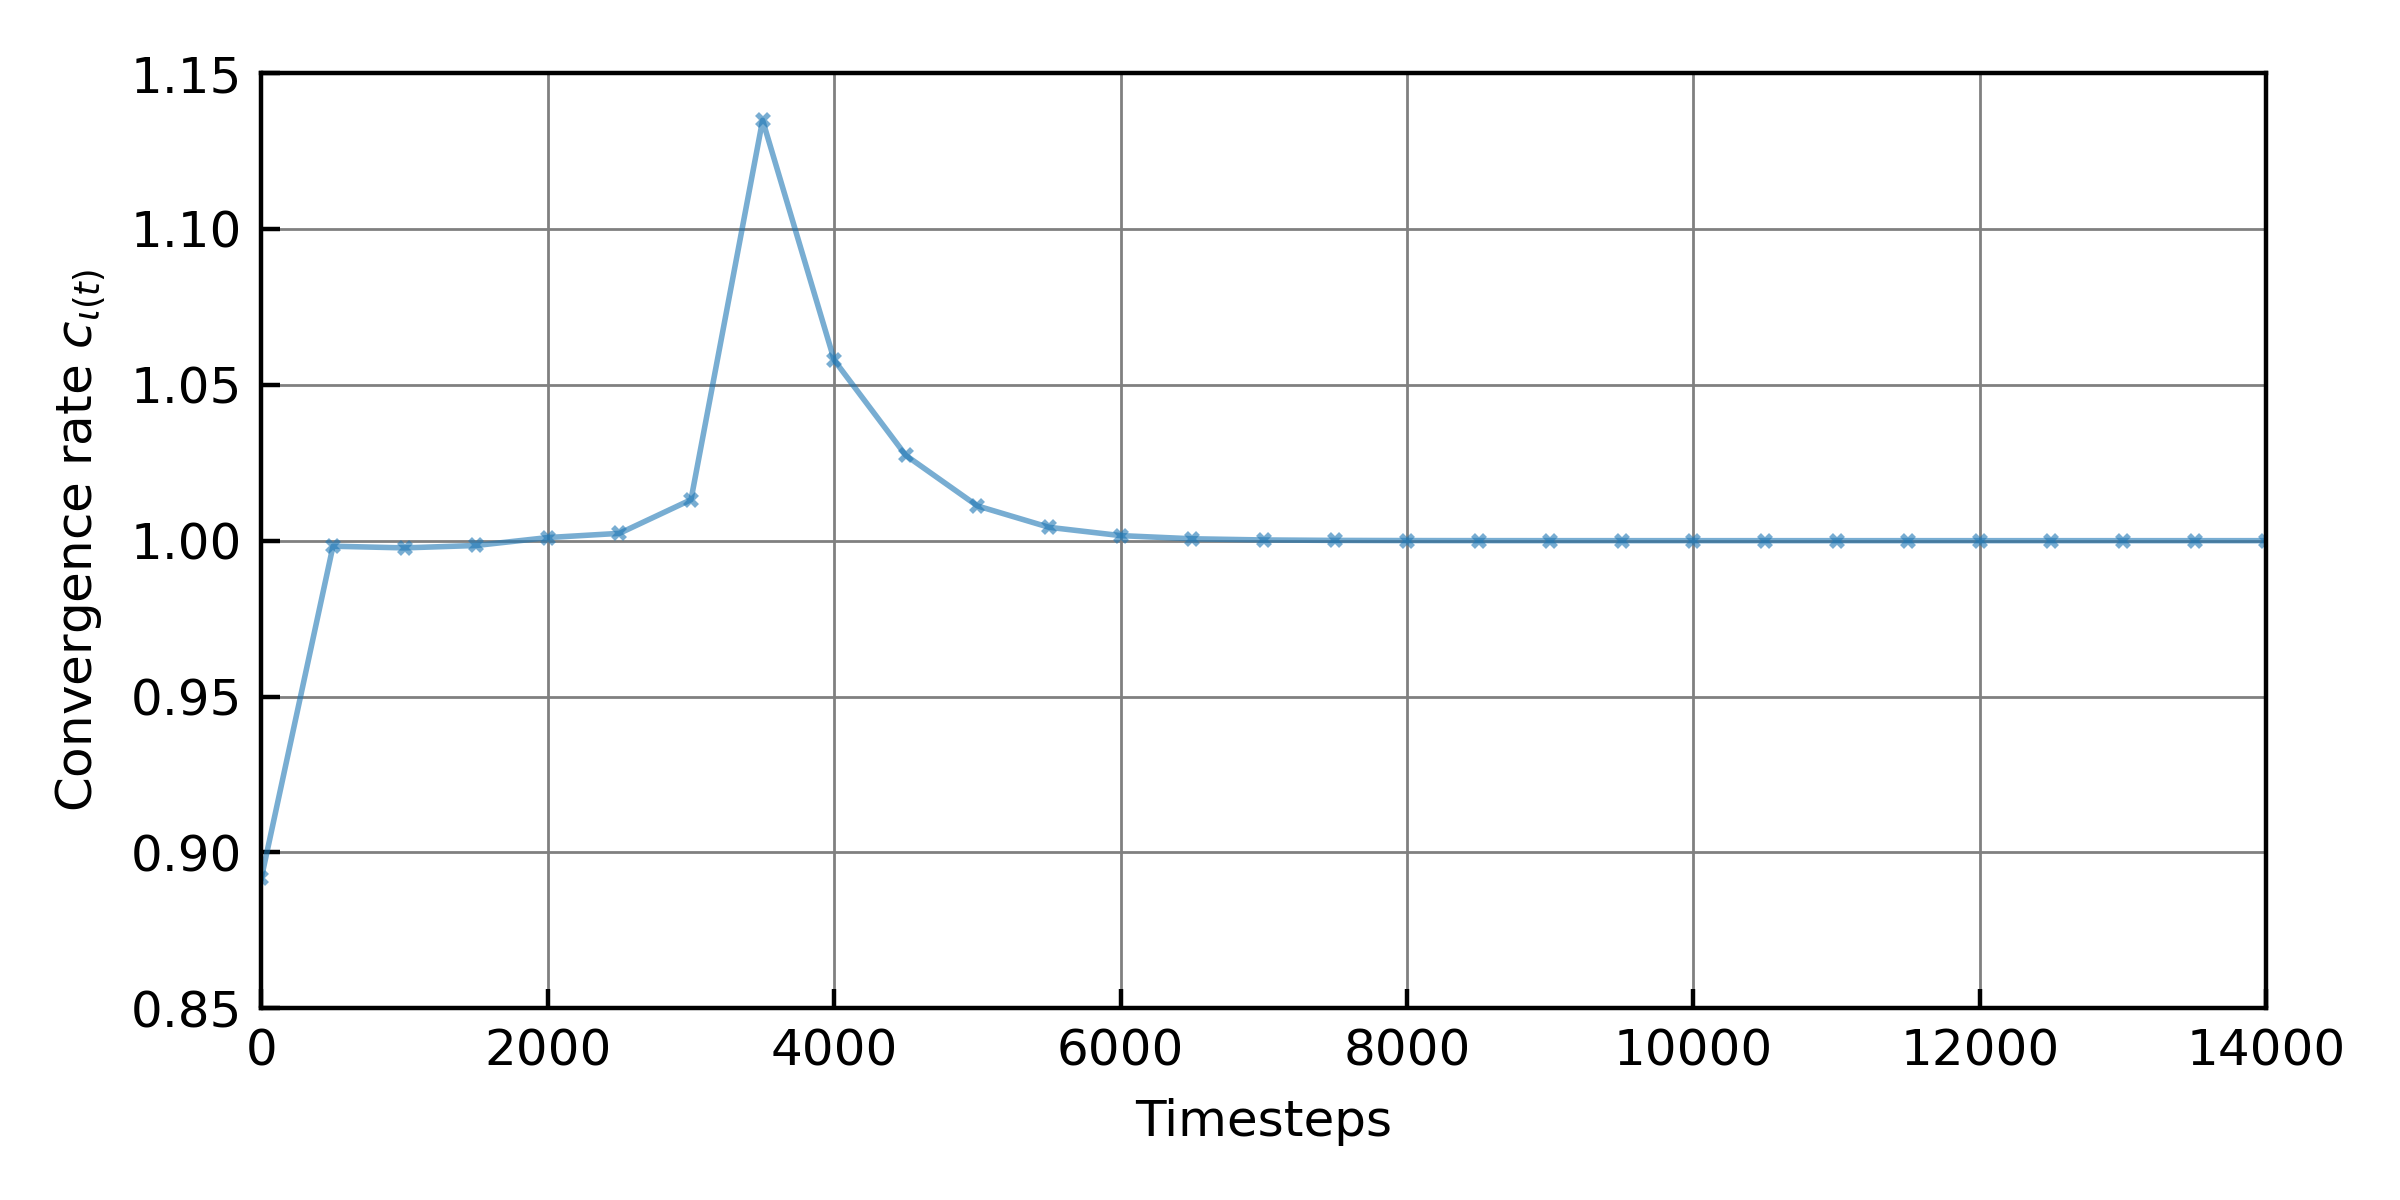
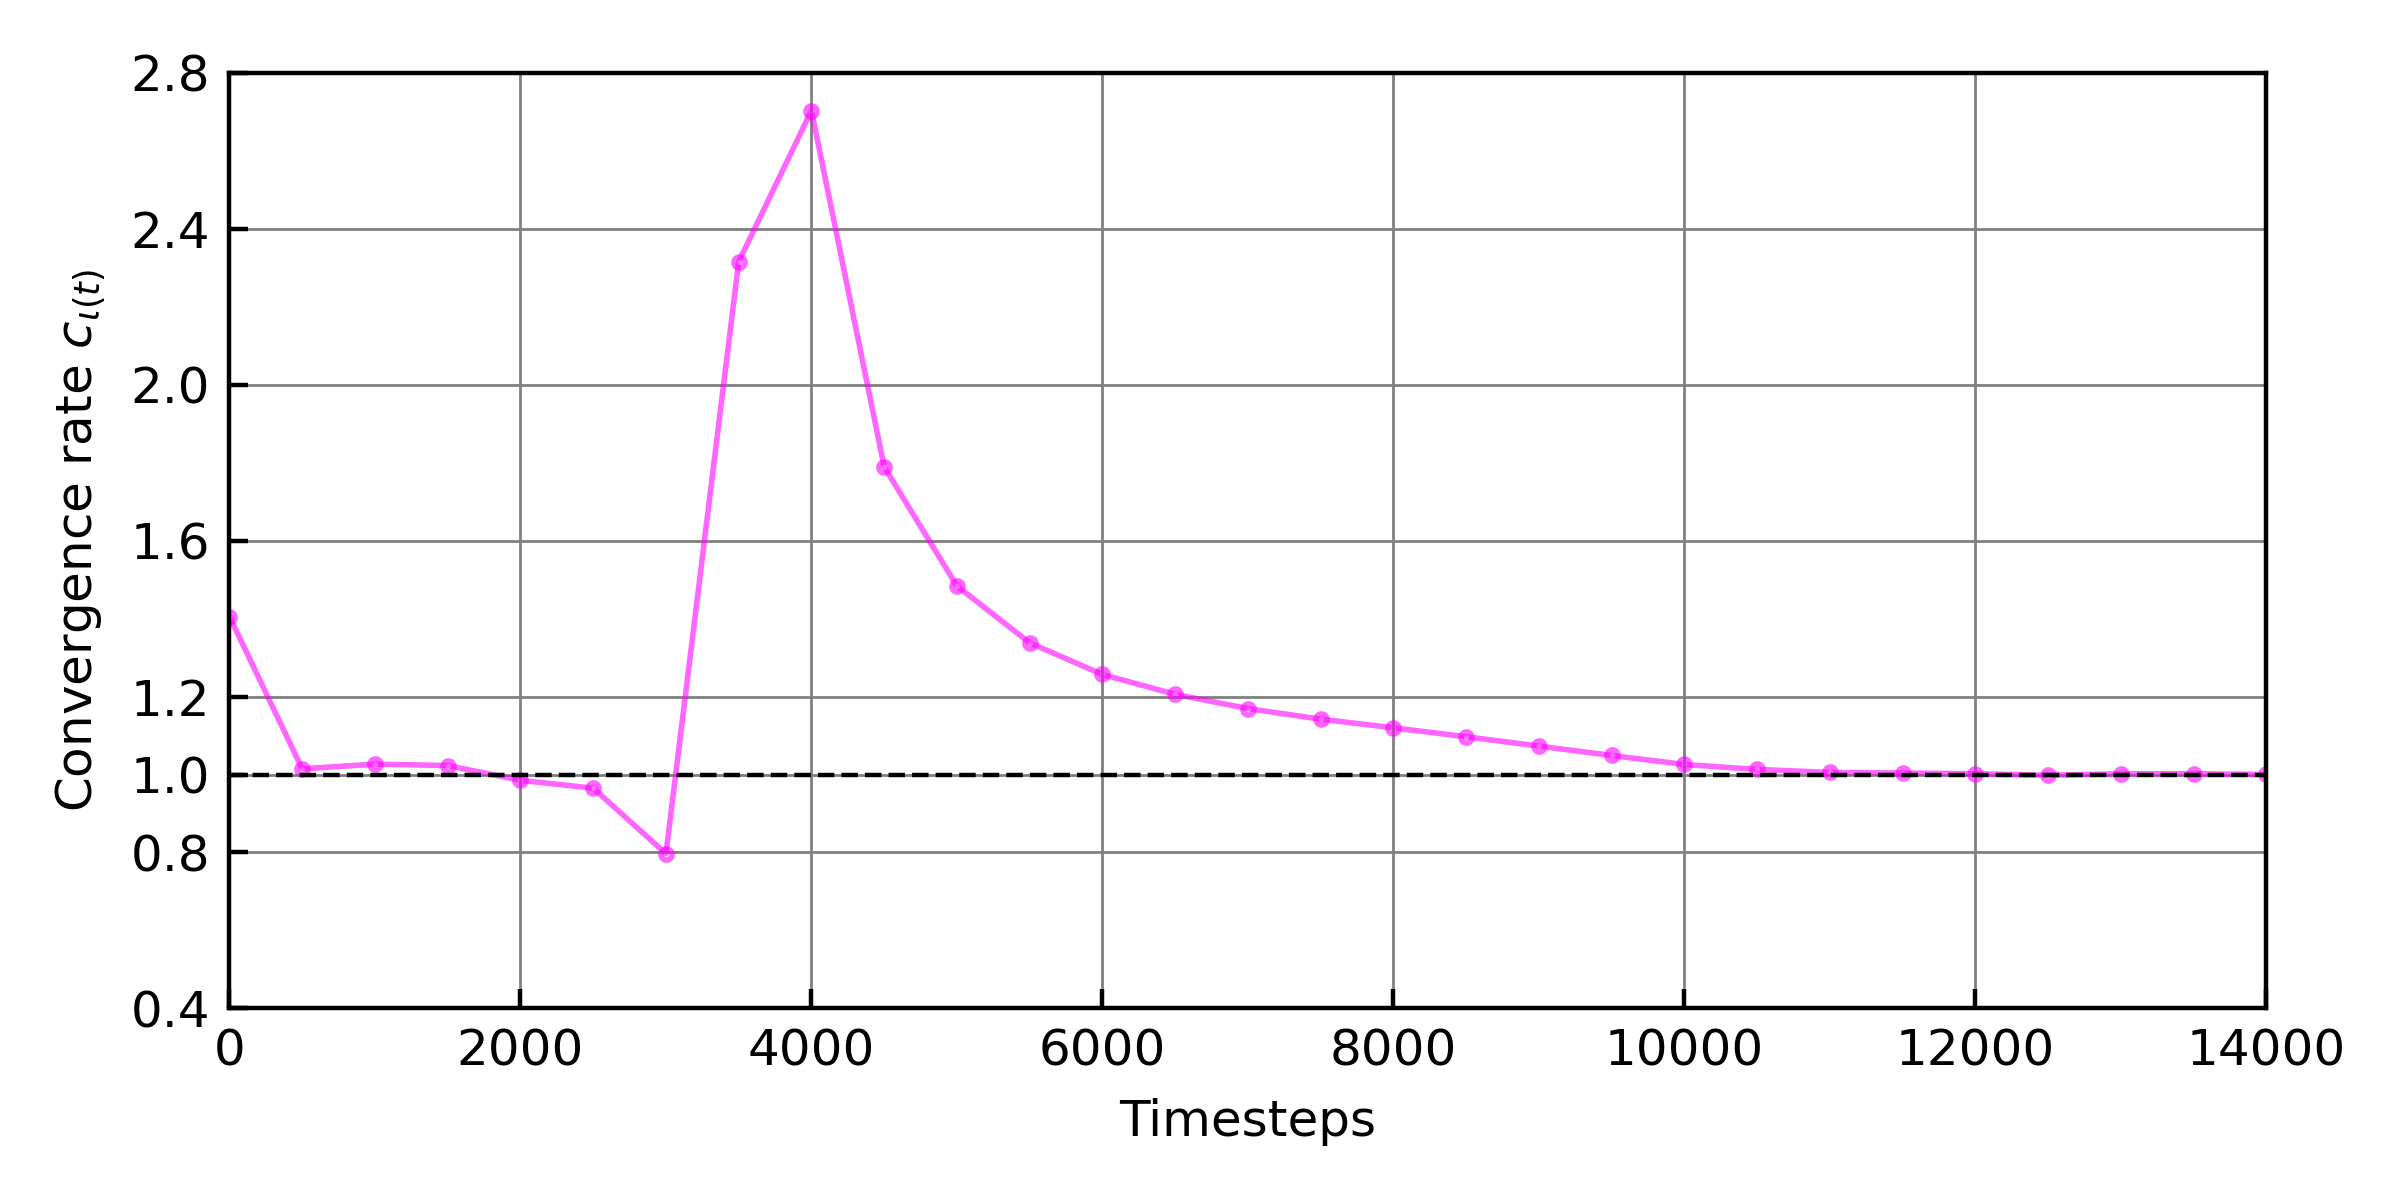
Major update with convergence formula correction

diff --git a/pythomac/flux_analyst.py b/pythomac/flux_analyst.py
@@ -109,7 +109,7 @@ def extract_fluxes(
         print("ERROR: could not convert dict to DataFrame because:\n" + str(problem))
         return -1
 
-    export_fn = "extracted_fluxes.csv"
+    export_fn = "extracted-fluxes.csv"
     print("* Exporting to {}".format(str(os.path.join(model_directory, export_fn))))
     df.to_csv(os.path.join(model_directory, export_fn))
 
@@ -128,22 +128,33 @@ def calculate_convergence(series_1, series_2, conv_constant=1., cas_timestep=1, 
     """ Approximate convergence according to
             https://hydro-informatics.com/convergence/#tm-calculate-convergence
 
-    :param list or np.array series_1: series_1 should converge toward series_2 (both must have the same length)
-    :param list or np.array series_2: series_2 should converge toward series_1 (both must have the same length)
+    :param list or np.array series_1: inflow flux series Q_in; the relative imbalance is normalized by this series, which should converge toward series_2 (both must have the same length)
+    :param list or np.array series_2: outflow flux series Q_out; should converge toward series_1 (both must have the same length)
     :param float conv_constant: a convergence constant to reach (default is 1.0)
     :param int cas_timestep: the timestep defined in the cas file
     :param str plot_dir: if a directory is provided, a convergence plot will be saved here
-    :return pandas.DataFrame: with one column, notably the convergence_rate iota as np.array
+    :return pandas.DataFrame: columns "Relative imbalance" (Delta_{Q,t}) and "Convergence rate" (iota), indexed by timestep
     """
-    # calculate the error epsilon between two series
-    epsilon = np.array(abs(series_1 - series_2))
+    # relative flux imbalance Delta_{Q,t} = ||Q_in| - |Q_out|| / |Q_in|, normalized by the
+    #   inflow (series_1) so that the imbalance is dimensionless; cf. the mass-flux-error
+    #   equation in the numerics script. Telemac reports boundary fluxes signed (inflow
+    #   positive, outflow negative), so the discharge magnitudes |.| are differenced here:
+    #   balance means |Q_in| == |Q_out|, hence Delta_{Q,t} -> 0 at steady state. Taking the
+    #   magnitudes also keeps the metric robust to momentary reverse flow at a boundary.
+    q_in = np.abs(np.array(series_1))
+    q_out = np.abs(np.array(series_2))
+    epsilon = np.abs(q_in - q_out) / q_in
     # derive epsilon at t and t+1
     epsilon_t0 = epsilon[:-1]  # cut off last element
     epsilon_t1 = epsilon[1:]  # cut off element zero
-    # calculate convergence
+    # convergence rate iota = log with base Delta_{Q,t} of Delta_{Q,t+1}
     iota = np.emath.logn(epsilon_t0, epsilon_t1) / conv_constant
 
-    iota_df = pd.DataFrame({"Convergence rate": iota})
+    # keep the relative imbalance alongside the rate: Delta_{Q,t+1} pairs with iota(t)
+    iota_df = pd.DataFrame({
+        "Relative imbalance": epsilon_t1,
+        "Convergence rate": iota,
+    })
     iota_df.set_index(iota_df.index.values * cas_timestep, inplace=True)
 
     if plot_dir:
@@ -154,27 +165,35 @@ def calculate_convergence(series_1, series_2, conv_constant=1., cas_timestep=1, 
             y_label=r"Convergence rate $c_{\iota(t)}$",
             column_keyword="rate",
             legend=False,
-            tight_ylim=True
+            tight_ylim=True,
+            hline=1.0
         )
 
     return iota_df
 
 
-def get_convergence_time(convergence_rate, convergence_precision=1.0E-4):
+def get_convergence_time(relative_imbalance, convergence_precision=1.0E-4):
     """
-    Calculate at which simulation time the simulation converged at a desired level of
-        convergence precision
+    Identify the optimum simulation length as the smallest output interval index beyond
+        which the relative flux imbalance Delta_{Q,t} (see calculate_convergence) remains
+        permanently below the target tolerance. This implements the optimum-simulation-
+        length criterion described at https://hydro-informatics.com/convergence.
 
-    :param numpy.array convergence_rate: iota calculated with calculate_convergence
-    :param float convergence_precision: define the desired level of convergence precision
-    :return numpy.int64: the time iteration number
+    :param numpy.array relative_imbalance: the Delta_{Q,t} series, e.g. the
+        "Relative imbalance" column returned by calculate_convergence
+    :param float convergence_precision: target tolerance Delta_{Q,tar}; 1e-4 is typically
+        acceptable for preliminary runs, while 1e-6 or smaller is warranted for validation
+        and hotstart initialization runs
+    :return numpy.int64: the time iteration number, or np.nan if the tolerance is never reached
     """
 
-    convergence_diff = np.diff(convergence_rate)
-    idx = np.flatnonzero(abs(convergence_diff) > convergence_precision)[-1] + 1
+    imbalance = np.real(np.asarray(relative_imbalance, dtype=float))
+    below = imbalance < convergence_precision
 
-    if idx < len(convergence_rate) - 1:
-        return idx
-    else:
+    if not below.any() or not below[-1]:
         print("WARNING: the desired convergence precision was never reached.")
         return np.nan
+
+    # smallest index beyond which the imbalance stays permanently below the tolerance
+    not_below = np.flatnonzero(~below)
+    return int(not_below[-1] + 1) if not_below.size else 0

diff --git a/pythomac/utils/plots.py b/pythomac/utils/plots.py
@@ -7,7 +7,7 @@ import matplotlib.pyplot as plt
 import matplotlib.ticker as mticker
 
 
-def plot_df(df, file_name, x_label=None, y_label=None, column_keyword="", legend=True, tight_ylim=False):
+def plot_df(df, file_name, x_label=None, y_label=None, column_keyword="", legend=True, tight_ylim=False, hline=None):
     """ Plot a pandas DataFrame as lines with markers. The dataframe index is used for the x-axis.
     The function can handle a maximum of twelve columns
 
@@ -22,6 +22,8 @@ def plot_df(df, file_name, x_label=None, y_label=None, column_keyword="", legend
     :param bool tight_ylim: if True, set the y-limits to narrowly embrace the plotted data
         (with a small margin) instead of anchoring the bottom at zero. Useful when values
         cluster in a narrow band (e.g., convergence rates around 1.0).
+    :param float hline: if set, draw a dashed horizontal reference line at this y-value
+        (excluded from the legend). The y-limits are widened to keep the line visible.
     :return:
     """
 
@@ -29,7 +31,7 @@ def plot_df(df, file_name, x_label=None, y_label=None, column_keyword="", legend
     matplotlib.rc('font', **font)
     fig = plt.figure(figsize=(6, 3), dpi=400)
     axes = fig.add_subplot()
-    colors = plt.cm.tab20(np.linspace(0, 1, len(df.columns)))  # https://matplotlib.org/stable/gallery/color/colormap_reference.html
+    colors = plt.cm.cool(np.linspace(0, 1, len(df.columns)))  # https://matplotlib.org/stable/gallery/color/colormap_reference.html
     markers = ("x", "o", "s", "+", "1", "D", "*", "CARETDOWN", "3", "^", "p", "2")
     plotted_values = []
     for i, y in enumerate(list(df)):
@@ -54,6 +56,9 @@ def plot_df(df, file_name, x_label=None, y_label=None, column_keyword="", legend
         all_values = np.concatenate(plotted_values)
         all_values = all_values[np.isfinite(all_values)]
         y_min, y_max = np.nanmin(all_values), np.nanmax(all_values)
+        # widen the band so the reference line stays inside the plotted area
+        if hline is not None:
+            y_min, y_max = min(y_min, hline), max(y_max, hline)
         # snap limits to multiples of a nice tick step so gridlines (incl. the
         # bottom axis and top box line) are evenly spaced
         tick_values = mticker.MaxNLocator(nbins=6).tick_values(y_min, y_max)
@@ -64,8 +69,15 @@ def plot_df(df, file_name, x_label=None, y_label=None, column_keyword="", legend
             upper = lower + tick_step
         axes.yaxis.set_major_locator(mticker.MultipleLocator(tick_step))
         axes.set_ylim(lower, upper)
+        if hline is not None:
+            # force a labeled tick at the reference value (only for this plot)
+            ticks = np.arange(lower, upper + tick_step / 2, tick_step)
+            ticks = np.unique(np.append(ticks, hline))
+            axes.yaxis.set_major_locator(mticker.FixedLocator(ticks))
     else:
         axes.set_ylim(bottom=0)
+    if hline is not None:
+        axes.axhline(y=hline, color="black", linestyle="--", linewidth=0.8, label="_nolegend_")
     axes.tick_params(axis="both", direction="in")
     if x_label:
         axes.set_xlabel(x_label)

diff --git a/example_flux_convergence.py b/example_flux_convergence.py
@@ -48,8 +48,8 @@ iota_t.to_csv(os.path.join(simulation_dir, "convergence-rate.csv"))
 
 # identify the timestep at which convergence was reached at a desired precision
 convergence_time_iteration = get_convergence_time(
-    convergence_rate=iota_t["Convergence rate"],
-    convergence_precision=1.0E-6
+    relative_imbalance=iota_t["Relative imbalance"],
+    convergence_precision=1.0E-4
 )
 
 if not("nan" in str(convergence_time_iteration).lower()):

diff --git a/example_flux_convergence_friction.py b/example_flux_convergence_friction.py
@@ -42,8 +42,8 @@ iota_t.to_csv(os.path.join(simulation_dir, "convergence-rate.csv"))
 
 # identify the timestep at which convergence was reached at a desired precision
 convergence_time_iteration = get_convergence_time(
-    convergence_rate=iota_t["Convergence rate"],
-    convergence_precision=1.0E-6
+    relative_imbalance=iota_t["Relative imbalance"],
+    convergence_precision=1.0E-4
 )
 
 if not("nan" in str(convergence_time_iteration).lower()):

diff --git a/docs/conf.py b/docs/conf.py
@@ -35,7 +35,7 @@ autodoc_mock_imports = [
 
 project = u"Pythomac"
 slug = re.sub(r"\W+", "-", project.lower())
-version = "1.1.0"
+version = "2.0.0"
 release = "latest"
 author = u"Hydro-Informatics.com"
 copyright = author
